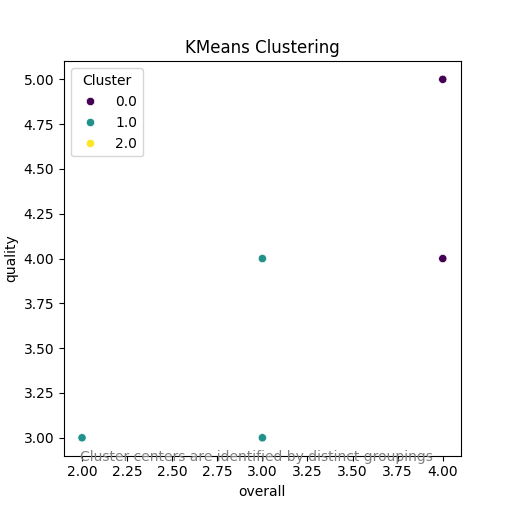
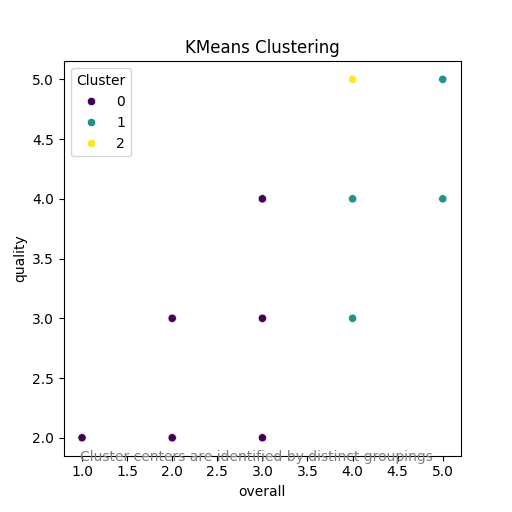
updated at 2200 on 141224

diff --git a/autolysis.py b/autolysis.py
@@ -19,9 +19,6 @@ from charset_normalizer import detect
 import requests
 from sklearn.cluster import KMeans
 from sklearn.preprocessing import StandardScaler
-import time
-
-start_time=time.time()
 
 # Ensure the environment variable for AI Proxy token is set
 AIPROXY_TOKEN = os.environ["AIPROXY_TOKEN"]
@@ -49,21 +46,15 @@ def analyze_dataset(file_path):
     # Perform generic analysis
     analysis = {
         "columns": list(df.columns),
-        "dtypes": {col: str(df[col].dtype) for col in df.columns},
-        "missing_values": {col: df[col].isnull().sum() for col in df.columns}
+        "dtypes": df.dtypes.apply(str).to_dict(),
+        "summary_stats": df.describe(include='all').to_dict(),
+        "missing_values": df.isnull().sum().to_dict()
     }
-    try:
-        numeric_summary = df.describe(include=['number']).to_dict()
-    except ValueError:
-        numeric_summary = {}
-
-    analysis["summary_stats"] = numeric_summary
 
     # Additional analysis for categorical data
     categorical_columns = df.select_dtypes(include=['object']).columns
-    if len(categorical_columns) > 0:
-        for col in categorical_columns[:5]:  # Limit analysis to top 5 categorical columns
-            analysis[f"{col}_value_counts"] = df[col].value_counts().to_dict()
+    for col in categorical_columns:
+        analysis[f"{col}_value_counts"] = df[col].value_counts().to_dict()
 
     return df, analysis
 
@@ -72,12 +63,11 @@ def perform_clustering(df, output_dir):
     numeric_columns = df.select_dtypes(include=['number']).columns
     if len(numeric_columns) > 1:
         scaler = StandardScaler()
-        sampled_data = df[numeric_columns].dropna().sample(frac=0.1, random_state=42)
-        scaled_data = scaler.fit_transform(sampled_data)
-        kmeans = KMeans(n_clusters=3, random_state=42, n_init=10)
+        scaled_data = scaler.fit_transform(df[numeric_columns].dropna())
+        kmeans = KMeans(n_clusters=3, random_state=42)
         clusters = kmeans.fit_predict(scaled_data)
 
-        df.loc[sampled_data.index, 'Cluster'] = clusters
+        df['Cluster'] = pd.Series(clusters, index=df[numeric_columns].dropna().index)
         plt.figure(figsize=(5.12, 5.12))  # Adjusted for 512x512 px
         sns.scatterplot(x=df[numeric_columns[0]], y=df[numeric_columns[1]], hue='Cluster', palette='viridis', data=df)
         plt.title("KMeans Clustering")
@@ -93,7 +83,7 @@ def generate_visualizations(df, output_dir):
 
     # Generate a correlation heatmap if applicable
     if len(numeric_columns) > 1:
-        corr = df[numeric_columns].corr().round(2)
+        corr = df[numeric_columns].corr()
         plt.figure(figsize=(5.12, 5.12))  # Adjusted for 512x512 px
         sns.heatmap(corr, annot=True, cmap="coolwarm")
         plt.title("Correlation Heatmap")
@@ -107,7 +97,7 @@ def generate_visualizations(df, output_dir):
     if len(numeric_columns) > 0:
         most_variable_col = df[numeric_columns].std().idxmax()
         plt.figure(figsize=(5.12, 5.12))  # Adjusted for 512x512 px
-        sns.histplot(df[most_variable_col], kde=True, bins=30)
+        sns.histplot(df[most_variable_col], kde=True)
         plt.title(f"Distribution of {most_variable_col}")
         plt.xlabel(most_variable_col)
         plt.ylabel("Frequency")
@@ -200,8 +190,4 @@ def main():
         print(f"File {file_path} not found!")
 
 if __name__ == "__main__":
-    try:
-        main()
-    finally:
-        end_time=time.time()
-        print(end_time-start_time)
+    main()

diff --git a/media/README.md b/media/README.md
@@ -1,61 +1,55 @@
 # Dataset Analysis
 
-Based on the analysis of the provided dataset, I can summarize the key findings and actionable insights as follows:
-
-### Overview of the Dataset
-The dataset comprises 100 records documenting various movies and series, providing insights into their ratings and additional metadata. The key columns include:
-- **date**: Date of release or review entry.
-- **language**: Language of the film/series.
-- **type**: Indicates whether the entry is a movie or series.
-- **title**: The title of the movie or series.
-- **by**: Individuals involved (actors, directors, etc.).
-- **overall, quality, repeatability**: Numeric ratings on various parameters.
+Based on the dataset analysis provided, here are some actionable insights and key findings that can help in understanding the underlying trends and relationships in the data.
 
 ### Key Findings
 
-1. **Descriptive Statistics**:
-   - The average overall rating is approximately **3.03** out of 5, with a standard deviation of **0.66**, indicating that most entries tend to cluster around the midpoint of the rating scale.
-   - The quality ratings show a slightly better average of **3.3**, suggesting that while overall enjoyment may be average, the quality is perceived to be relatively higher.
-   - Repeatability ratings average **1.3**, with a clear mode of 1, indicating that very few of the titles are considered binge-worthy or worth rewatching.
+1. **Date Distribution**:
+   - The dataset contains 100 entries spread over 87 unique dates, indicating frequent updates or releases, likely in the entertainment domain (movies/series). The most common date is 15-Jul-23 with 3 entries.
+   - There are future dates extending into 2024, potentially highlighting upcoming releases or events.
 
-2. **Language Distribution**:
-   - The predominant languages are **English** (31 entries) and **Tamil** (30 entries), followed by **Telugu** (20), indicating regional preferences in media consumption.
-   - The lower count for languages like **Spanish** and **Chinese** suggests potential gaps in title offerings for diverse audiences.
+2. **Language Representation**:
+   - A diverse representation of languages is present in the dataset, with **English** (31 entries) and **Tamil** (30 entries) being the most common. This suggests that the dataset covers content from a broad cultural spectrum, indicating a focus on both local (Tamil) and international (English) productions.
 
-3. **Type Distribution**:
-   - The vast majority of entries are **movies (83)** compared to **series (15)** and **TV series (2)**, which reflects consumer preference in this dataset that heavily favors film content.
+3. **Content Type**:
+   - A significant focus on **movies** (83 entries) as opposed to series (15 entries) and TV series (2 entries). This trend might suggest that data collection leans towards film releases.
+  
+4. **Titles**:
+   - **"Maaveeran"** and **"Jailer"** are notable titles with the highest frequency (2 entries each). The majority of entries, however, represent unique titles, indicating a varied content landscape.
+   - Analyzing titles further through viewer ratings can provide insights into audience preferences and popularity trends of specific genres or actors.
 
-4. **Release Date Trends**:
-   - The highest frequency of entries appears on **15-Jul-23** (3 entries), and a few others on notable dates (2 entries each), suggesting potential success in clustering releases around certain periods or seasons.
-   - A variety of entries are scheduled in 2024, indicating a robust upcoming slate that could attract viewer interest.
+5. **Ratings Analysis**:
+   - **Overall Ratings**: The average overall rating is **3.03** with a standard deviation of **0.66**. This suggests a moderate reception across all entries.
+   - **Quality Ratings**: The average rating for quality is **3.3**, with a standard deviation of **0.69**. Quality ratings being higher than overall ratings can indicate that viewers may find value in aspects like storytelling and performances, even if they rate the overall experience slightly lower.
 
-5. **Title Popularity**:
-   - Titles like **"Maaveeran"** and **"Jailer"** are repeated, indicating popularity or significant cultural impact, while most other titles are unique.
-   - This points to possible avenues for further publicity or marketing for these popular titles.
+6. **Repeatability**:
+   - The average repeatability rating stands at **1.3** indicating that most viewers have little desire to rewatch the content, which might hint at lower engagement or satisfaction rates.
 
-6. **Collaborative Relationships**:
-   - Some collaborations, like **Simon Baker and Robin Tunney** appearing together 6 times, suggest these pairings could be key to future projects due to their established chemistry.
-   - Conversely, many titles feature diverse casts, hinting at an industry practice of crossover appeals to different demographics.
+### Potential Relationships
+
+- **Language vs. Overall Ratings**: It could be beneficial to analyze the relationship between language and overall ratings. This might help identify if content in certain languages tends to receive higher ratings, influencing distribution strategies.
+  
+- **Content Type vs. Ratings**: Investigating how different types of content (movie, series, TV series) perform compared to their ratings may reveal preferences in viewer engagement. Are movies being rated significantly higher than series?
+
+- **Actor Contributions**: With multiple entries for actors like **Simon Baker and Robin Tunney**, understanding how their involvement correlates with overall and quality ratings could provide insights into casting effectiveness.
+
+### Outliers
+
+- **Repeatability**: The maximum repeatability rating of **3** might indicate outlier content that viewers found exceptional enough to rewatch. Identifying those specific titles could help in understanding what makes content memorable and popular.
+
+### Trends
+
+- **Overall Low Repeatability and Moderate Ratings**: The dataset suggests that while viewers aren't seeking to rewatch content often, they are giving it moderate ratings. This might indicate room for improving viewer engagement, perhaps through enhanced storytelling or marketing efforts focusing on viewer experiences.
+  
+- **Focus on Movies**: With the overwhelming number of movies in the dataset, there might be an opportunity to diversify into series or TV series that can build a more dedicated viewer base over time.
 
 ### Actionable Insights
 
-1. **Content Diversification**:
-   - Given the prominence of English and Tamil, consider expanding offerings in languages with fewer representations to capture new audiences, potentially increasing viewership and engagement.
+- **Target Marketing Campaigns**: Create targeted campaigns focusing on the top-rated titles and actors to boost viewership and engagement.
+- **Enhance Viewer Experience**: Given the modest ratings but low repeatability, consider qualitative research (surveys or focus groups) to understand viewer preferences better and refine content offerings.
+- **Content Diversification**: Explore the production of content in lesser-represented languages or unique types to tap into a potentially underserved market.
 
-2. **Promotional Strategies**:
-   - Leverage popular titles and collaborative actors' profiles in marketing campaigns. Strategically timed releases around proven successful dates could capitalize on existing audience interest.
-
-3. **Quality Assessment**:
-   - Further analysis is needed to understand why despite higher quality ratings, overall ratings average out lower. Engaging with audience feedback through surveys or ratings prompts can provide insights into improvement areas.
-
-4. **Focus on Repeatability**:
-   - Evaluate the content for more binge-worthy options. Titles that encourage viewer retention could be prioritized in future projects. Engaging audiences through serial adaptations or sequels could enhance lasting viewership.
-
-5. **Trend Analysis**:
-   - Monitor upcoming release dates closely, particularly in 2024, to identify potential surges in audience interest based on historical patterns in reviews, ratings, or social media trends.
-
-### Conclusion
-This dataset exhibits diverse patterns reminiscent of typical entertainment trends, yet offers unique opportunities to fine-tune content offerings. By addressing identified gaps and capitalizing on popular trends, stakeholders can enhance viewer engagement and satisfaction within their target markets. Further exploration and continuous monitoring of audience preferences will be critical in guiding future strategies.
+In summary, the dataset provides a rich view into the movie and series landscape, revealing key player activity, viewer engagement, and areas for improvement that could help drive future content strategy and audience interaction.
 
 ## Visualizations
 ![correlation_heatmap.png](correlation_heatmap.png)
